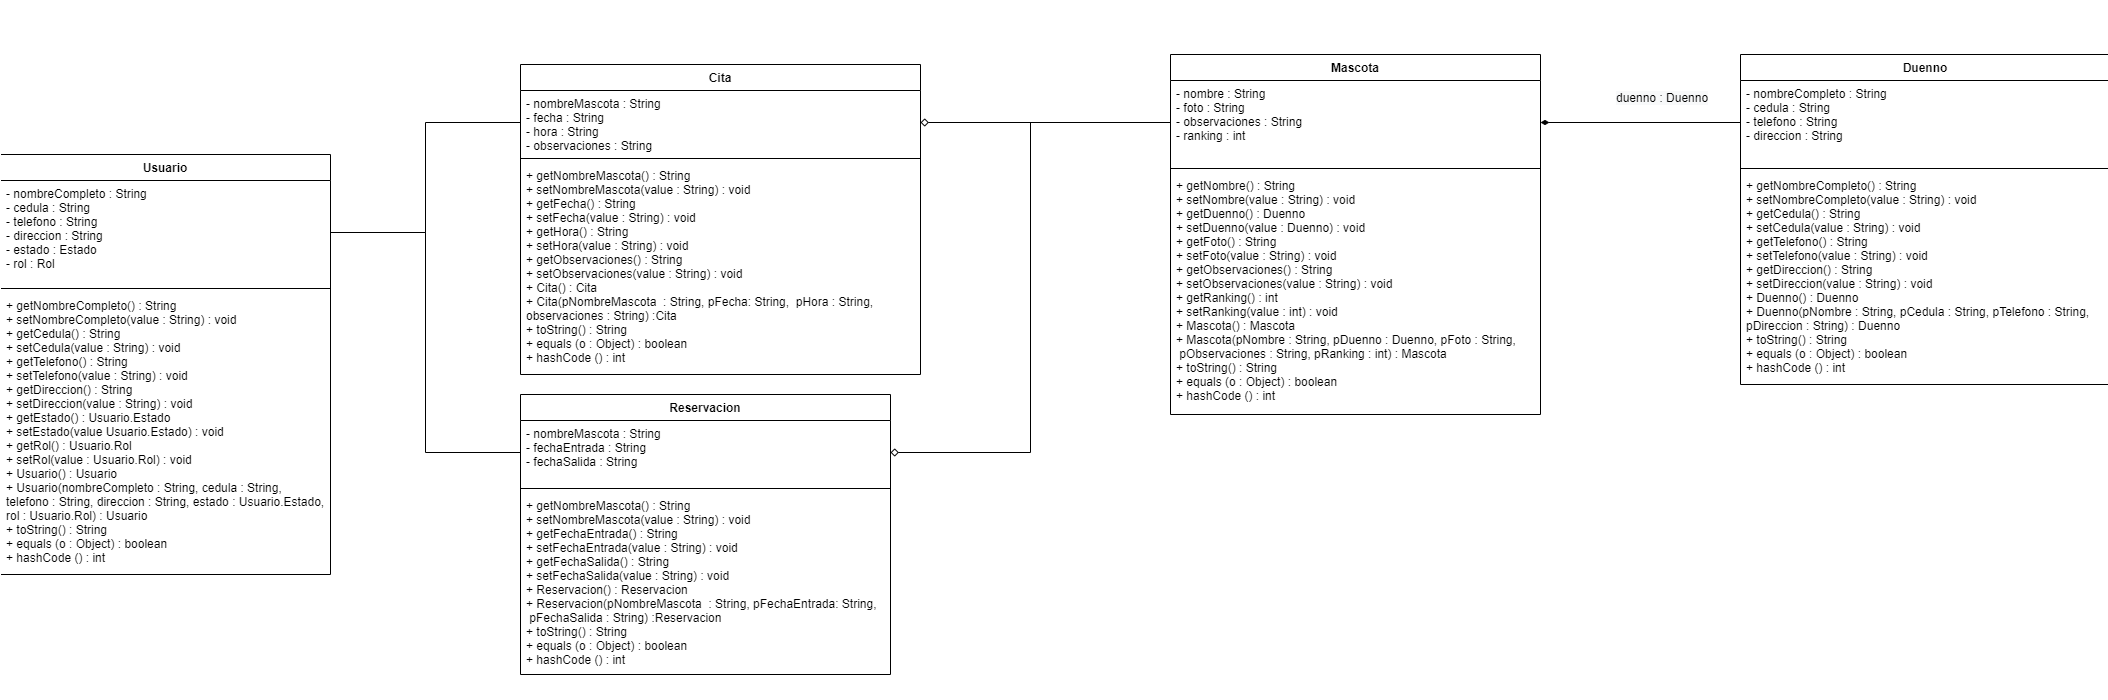
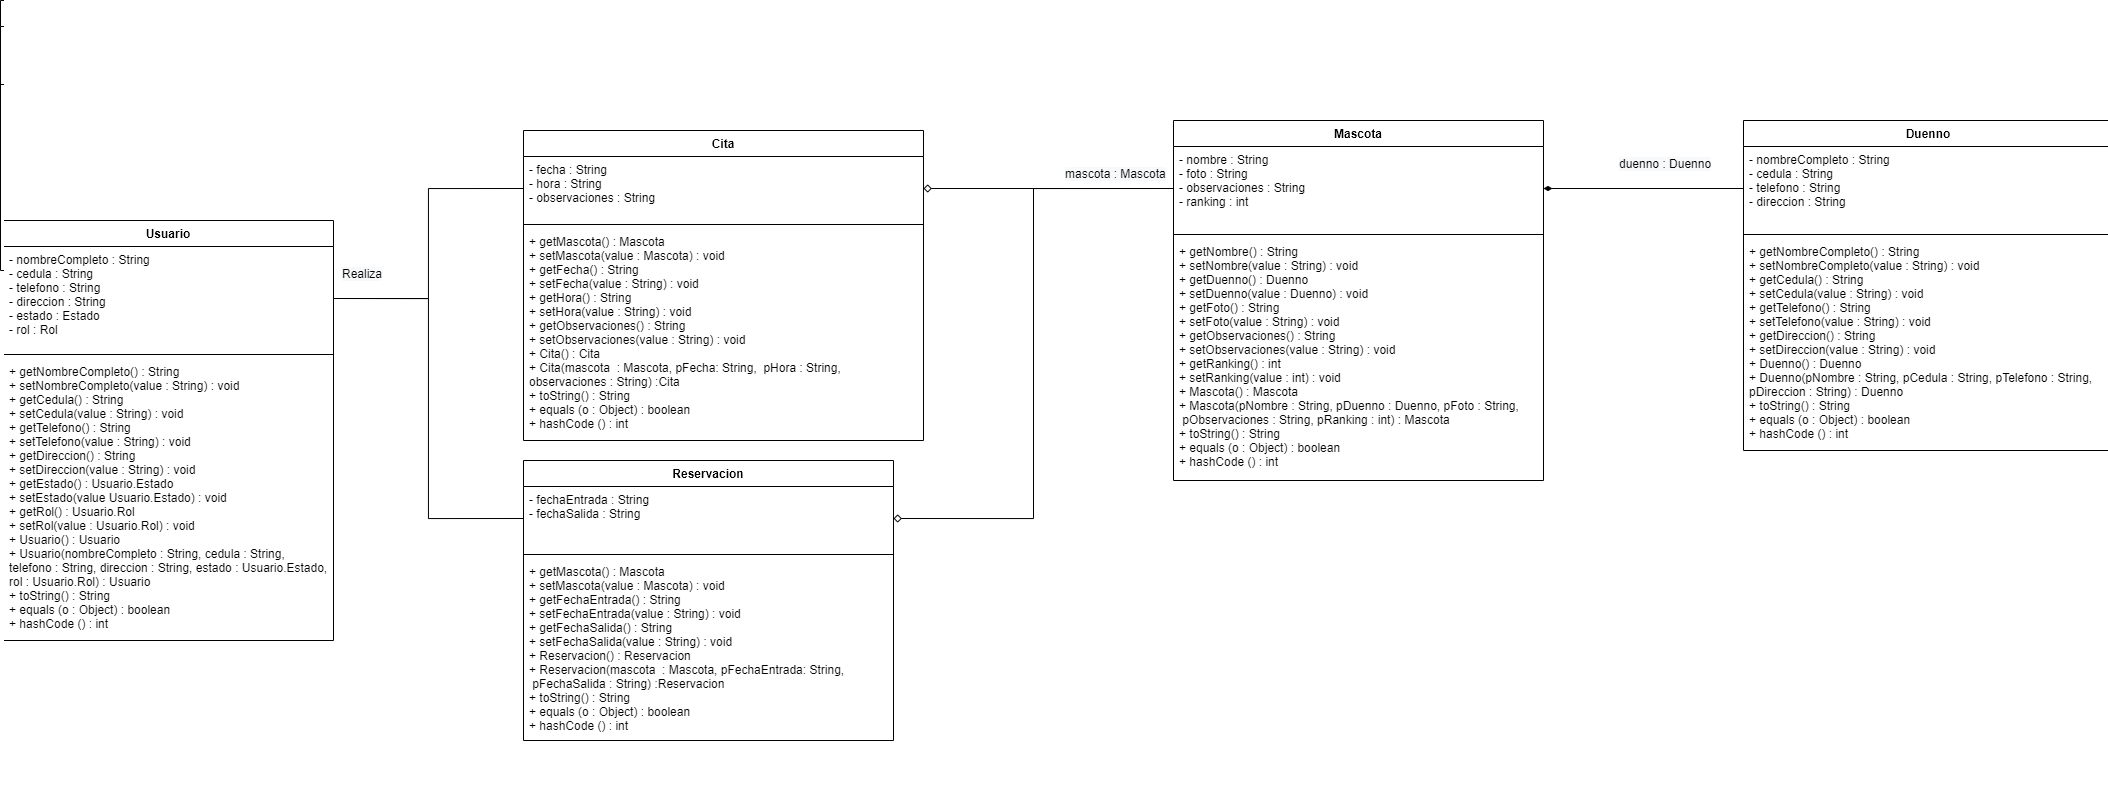
Se arreglo una relacion incorrecta

diff --git a/src/segura/taylor/controlador/Controlador.java b/src/segura/taylor/controlador/Controlador.java
@@ -90,8 +90,33 @@ public class Controlador {
      */
     private boolean registrarCita() {
         ui.imprimirLinea("\n\nBienvenido al registro de citas");
-        ui.imprimir("Ingrese el nombre de la mascota: ");
-        String nombre = ui.leerLinea();
+
+        Mascota mascota;
+
+        do{
+            ui.imprimir("Ingrese el nombre de la mascota: ");
+            String nombre = ui.leerLinea();
+            mascota = gestor.buscarMascota(nombre);
+
+            if(mascota == null){
+                ui.imprimirLinea("No se encontró ninguna mascota con ese nombre.");
+                ui.imprimirLinea("1. Crear nueva mascota");
+                ui.imprimirLinea("2. Intentar con otro nombre");
+                ui.imprimirLinea("3. Cancelar reservacion");
+                ui.imprimir("Su opcion: ");
+                int opcion = ui.leerEntero();
+
+                switch (opcion){
+                    case 1:
+                        mascota = registrarMascota();
+                        break;
+                    case 3:
+                        return false;
+                    default:
+                        break;
+                }
+            }
+        } while(mascota == null);
 
         ui.imprimir("Ingrese la fecha de la cita: ");
         String fecha = ui.leerLinea();
@@ -102,7 +127,7 @@ public class Controlador {
         ui.imprimir("Ingrese las observaciones: ");
         String observaciones = ui.leerLinea();
 
-        boolean resultado = gestor.registrarCita(nombre, fecha,  hora, observaciones);
+        boolean resultado = gestor.registrarCita(mascota, fecha,  hora, observaciones);
         if(resultado){
             ui.imprimirLinea("Registro realizado correctamente");
         } else {
@@ -130,8 +155,33 @@ public class Controlador {
      */
     private boolean registrarReservacion() {
         ui.imprimirLinea("\n\nBienvenido al registro de reservaciones");
-        ui.imprimir("Ingrese el nombre de la mascota: ");
-        String nombre = ui.leerLinea();
+
+        Mascota mascota;
+
+        do{
+            ui.imprimir("Ingrese el nombre de la mascota: ");
+            String nombre = ui.leerLinea();
+            mascota = gestor.buscarMascota(nombre);
+
+            if(mascota == null){
+                ui.imprimirLinea("No se encontró ninguna mascota con ese nombre.");
+                ui.imprimirLinea("1. Crear nueva mascota");
+                ui.imprimirLinea("2. Intentar con otro nombre");
+                ui.imprimirLinea("3. Cancelar reservacion");
+                ui.imprimir("Su opcion: ");
+                int opcion = ui.leerEntero();
+
+                switch (opcion){
+                    case 1:
+                        mascota = registrarMascota();
+                        break;
+                    case 3:
+                        return false;
+                    default:
+                        break;
+                }
+            }
+        } while(mascota == null);
 
         ui.imprimir("Ingrese la fecha de entrada: ");
         String fechaEntrada = ui.leerLinea();
@@ -139,7 +189,7 @@ public class Controlador {
         ui.imprimir("Ingrese la fecha de salida: ");
         String fechaSalida = ui.leerLinea();
 
-        boolean resultado = gestor.registrarReservacion(nombre, fechaEntrada, fechaSalida);
+        boolean resultado = gestor.registrarReservacion(mascota, fechaEntrada, fechaSalida);
         if(resultado){
             ui.imprimirLinea("Registro realizado correctamente");
         } else {
@@ -215,7 +265,7 @@ public class Controlador {
      * Este método se usa para llevar a cabo el registro de una mascota
      * @return true si el registro es exitoso, false si la mascota ya existe
      */
-    private boolean registrarMascota() {
+    private Mascota registrarMascota() {
         ui.imprimirLinea("\n\nBienvenido al registro de mascotas");
         ui.imprimirLinea("DATOS DE LA MASCOTA");
         ui.imprimir("Ingrese el nombre de la mascota: ");
@@ -247,11 +297,12 @@ public class Controlador {
         boolean resultado = gestor.registrarMascota(nombreMascota, duennoMascota, foto, observaciones, ranking);
         if(resultado){
             ui.imprimirLinea("Registro realizado correctamente");
+            return gestor.buscarMascota(nombreMascota);
         } else {
             ui.imprimirLinea("La mascota ya existe :(");
         }
 
-        return resultado;
+        return null;
     }
     /**
      * Este método se usa mostrar en el UI todas las mascotas que se han registrado

diff --git a/src/segura/taylor/bl/gestor/Gestor.java b/src/segura/taylor/bl/gestor/Gestor.java
@@ -26,15 +26,15 @@ public class Gestor {
     //Metodos
     /**
      * Este método se usa para registrar una nueva cita
-     * @param pNombreMascota un String que contiene el nombre de la mascota
+     * @param pMascota un objeto de la clase Mascota que contiene la mascota que asiste a la cita
      * @param pFecha un String que contiene la fecha de la reservacion
      * @param pHora un String que contiene la hora de la reservación
      * @param pObservaciones un String que contiene las observaciones
      * @return true si el registro es exitoso, false si la cita ya existe
      * @see Cita
      */
-    public boolean registrarCita(String pNombreMascota, String pFecha, String pHora, String pObservaciones){
-        Cita nuevaCita = new Cita(pNombreMascota, pFecha, pHora, pObservaciones);
+    public boolean registrarCita(Mascota pMascota, String pFecha, String pHora, String pObservaciones){
+        Cita nuevaCita = new Cita(pMascota, pFecha, pHora, pObservaciones);
         if(!citas.contains(nuevaCita)){
             citas.add(nuevaCita);
             return true;
@@ -85,17 +85,31 @@ public class Gestor {
     public ArrayList<Mascota> listarMascotas(){
         return this.mascotas;
     }
+    /**
+     * Este método se usa para buscar una mascota usando como filtro el nombre
+     * @param pNombre el nombre de la mascota que se busca
+     * @return un objeto de la clase Mascota si se encuentra, null si no se encuentra
+     * @see Mascota
+     */
+    public Mascota buscarMascota(String pNombre){
+        for(Mascota objMascota: mascotas){
+            if(objMascota.getNombre().equals(pNombre)){
+                return objMascota;
+            }
+        }
 
+        return null;
+    }
     /**
      * Este método se usa para registrar una nueva reservacion
-     * @param  pNombreMascota un String que contiene el nombre de la mascota a la que pertenece la reservacion
+     * @param  pMascota un objeto de la clase Mascota que contiene la mascota que asiste a la reservacion
      * @param pFechaEntrada un String que contiene la fecha de entrada
      * @param pFechaSalida un String que contiene la fecha de salida
      * @return true si el registro es exitoso, false si la reservacion ya existe
      * @see Reservacion
      */
-    public boolean registrarReservacion(String pNombreMascota, String pFechaEntrada, String pFechaSalida){
-        Reservacion nuevaReservacion = new Reservacion(pNombreMascota, pFechaEntrada, pFechaSalida);
+    public boolean registrarReservacion(Mascota pMascota, String pFechaEntrada, String pFechaSalida){
+        Reservacion nuevaReservacion = new Reservacion(pMascota, pFechaEntrada, pFechaSalida);
         if(!reservaciones.contains(nuevaReservacion)){
             reservaciones.add(nuevaReservacion);
             return true;

diff --git a/src/segura/taylor/bl/entidades/Cita.java b/src/segura/taylor/bl/entidades/Cita.java
@@ -10,18 +10,18 @@ public class Cita {
 
     //Variables
 
-    private String nombreMascota;
+    private Mascota mascota;
     private String fecha;
     private String hora;
     private String observaciones;
 
     //Propiedades
-    public String getNombreMascota() {
-        return this.nombreMascota;
+    public Mascota getMascota() {
+        return this.mascota;
     }
 
-    public void setNombreMascota(String value) {
-        this.nombreMascota = value;
+    public void setMascota(Mascota value) {
+        this.mascota = value;
     }
 
     public String getFecha() {
@@ -54,13 +54,13 @@ public class Cita {
 
     /**
      * Metodo constructor para la clase Cita
-     * @param pNombreMascota String que contiene el nombre de la mascota
+     * @param pMascota objeto de la clase Mascota que contiene la mascota que asiste a la cita
      * @param pFecha String que define la fecha de la cita
      * @param pHora String que define la hora de la cita
      * @param pObservaciones String que define las observaciones de la cita
      */
-    public Cita(String pNombreMascota, String pFecha, String pHora, String pObservaciones) {
-        this.nombreMascota = pNombreMascota;
+    public Cita(Mascota pMascota, String pFecha, String pHora, String pObservaciones) {
+        this.mascota = pMascota;
         this.fecha = pFecha;
         this.hora = pHora;
         this.observaciones = pObservaciones;
@@ -69,7 +69,7 @@ public class Cita {
     //Metodos
     @Override
     public String toString() {
-        String resultado = "Cita [Mascota: " + this.nombreMascota + ", fecha de la cita: " + this.fecha + ", hora de la cita: " + this.hora + ", observaciones: " + this.observaciones + "]";
+        String resultado = "Cita [Mascota: " + this.mascota + ", fecha de la cita: " + this.fecha + ", hora de la cita: " + this.hora + ", observaciones: " + this.observaciones + "]";
         return resultado;
     }
 
@@ -78,7 +78,7 @@ public class Cita {
         if (this == o) return true;
         if (o == null || getClass() != o.getClass()) return false;
         Cita cita = (Cita) o;
-        return Objects.equals(nombreMascota, cita.nombreMascota) &&
+        return Objects.equals(mascota, cita.mascota) &&
                 Objects.equals(fecha, cita.fecha) &&
                 Objects.equals(hora, cita.hora) &&
                 Objects.equals(observaciones, cita.observaciones);
@@ -86,6 +86,6 @@ public class Cita {
 
     @Override
     public int hashCode() {
-        return Objects.hash(nombreMascota, fecha, hora, observaciones);
+        return Objects.hash(mascota, fecha, hora, observaciones);
     }
 }

diff --git a/src/segura/taylor/bl/entidades/Reservacion.java b/src/segura/taylor/bl/entidades/Reservacion.java
@@ -9,18 +9,17 @@ import java.util.Objects;
 public class Reservacion {
 
     //Variables
-
-    private String nombreMascota;
+    private Mascota mascota;
     private String fechaEntrada;
     private String fechaSalida;
 
     //Propiedades
-    public String getNombreMascota() {
-        return this.nombreMascota;
+    public Mascota getMascota() {
+        return this.mascota;
     }
 
-    public void setNombreMascota(String value) {
-        this.nombreMascota = value;
+    public void setMascota(Mascota value) {
+        this.mascota = value;
     }
 
     public String getFechaEntrada() {
@@ -45,12 +44,12 @@ public class Reservacion {
 
     /**
      * Metodo constructor para la clase Reservacion
-     * @param pNombreMascota String que define el nombre de la mascota
+     * @param pMascota objeto de la clase Mascota que define la mascota que asiste a la reservacion
      * @param pFechaEntrada String que define la fecha de entrada para la reservacion
      * @param pFechaSalida String que define la fecha de salida para la reservacion
      */
-    public Reservacion(String pNombreMascota, String pFechaEntrada, String pFechaSalida) {
-        this.nombreMascota = pNombreMascota;
+    public Reservacion(Mascota pMascota, String pFechaEntrada, String pFechaSalida) {
+        this.mascota = pMascota;
         this.fechaEntrada = pFechaEntrada;
         this.fechaSalida = pFechaSalida;
     }
@@ -58,7 +57,7 @@ public class Reservacion {
     //Metodos
     @Override
     public String toString() {
-        String resultado = "Reservacion [Mascota: " + this.nombreMascota + ", fecha de entrada: " + this.fechaEntrada + ", fecha de salida: " + this.fechaSalida + "]";
+        String resultado = "Reservacion [Mascota: " + this.mascota + ", fecha de entrada: " + this.fechaEntrada + ", fecha de salida: " + this.fechaSalida + "]";
         return resultado;
     }
 
@@ -67,13 +66,13 @@ public class Reservacion {
         if (this == o) return true;
         if (o == null || getClass() != o.getClass()) return false;
         Reservacion that = (Reservacion) o;
-        return Objects.equals(nombreMascota, that.nombreMascota) &&
+        return Objects.equals(mascota, that.mascota) &&
                 Objects.equals(fechaEntrada, that.fechaEntrada) &&
                 Objects.equals(fechaSalida, that.fechaSalida);
     }
 
     @Override
     public int hashCode() {
-        return Objects.hash(nombreMascota, fechaEntrada, fechaSalida);
+        return Objects.hash(mascota, fechaEntrada, fechaSalida);
     }
 }
